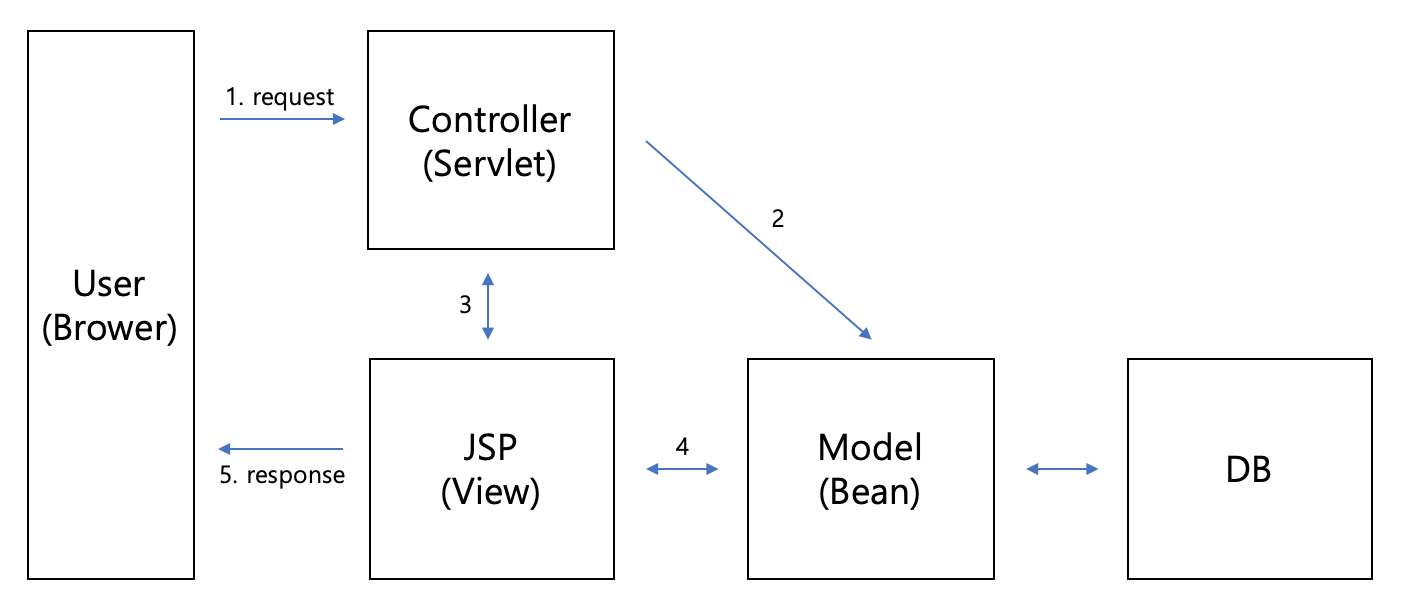
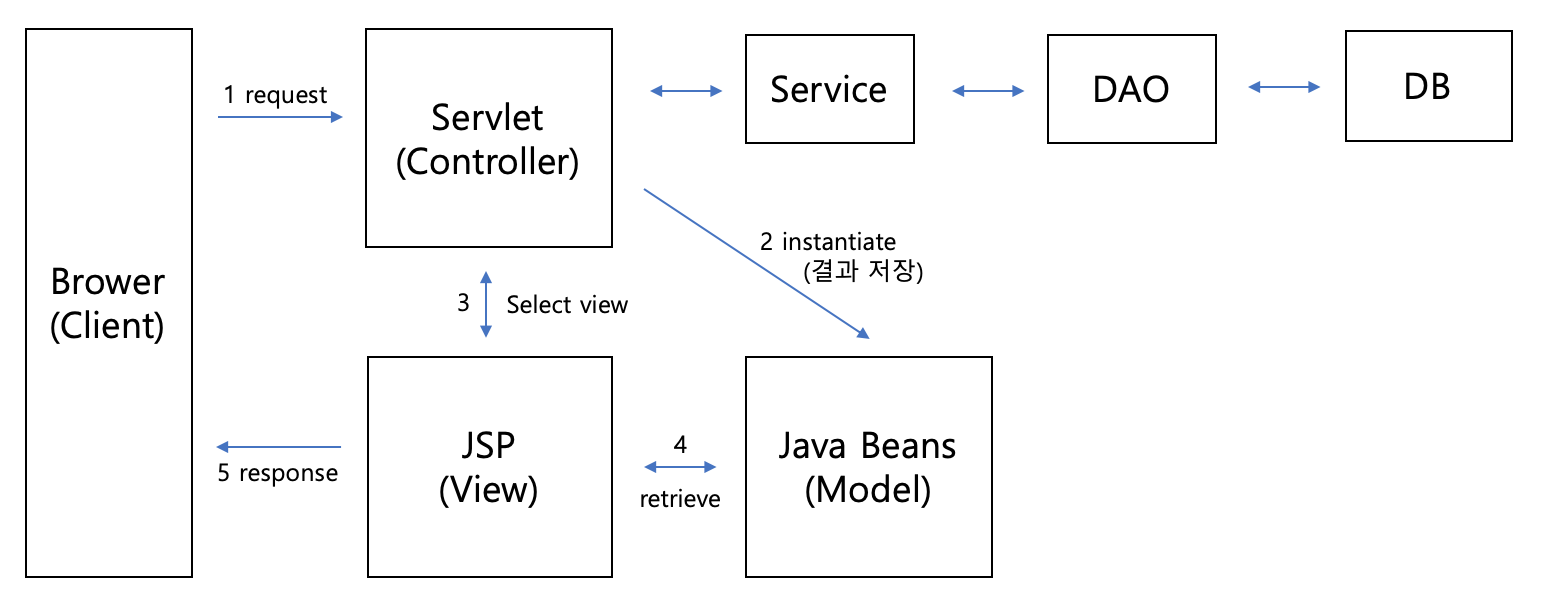
add :  - Spring framework 추가

diff --git a/_posts/2019-04-29-SpringFramework.md b/_posts/2019-04-29-SpringFramework.md
@@ -1,0 +1,57 @@
+---
+title: MVC1과 MVC2
+layout: post
+description: null
+headline: null
+modified: '2019-04-24'
+category: Spring
+tags:
+- Spring, MVC
+imagefeature: null
+mathjax: null
+chart: null
+comments: true
+featured: true
+lastmod : 2019-04-29 12:00:00
+sitemap :  
+   changefreq : daily
+   priority : 1.0
+---
+
+# Spring Framework  
+  
+## 1. Framework란 ?  
+Framework는 구조 품질을 보장  
+ - SW구조 그리고 기반되는 클래스를 제공  
+   
+Framework는 어플리케이션 구조 및 코드의 상당 부분을 제공하며, 개발자는 어플리케이션의 핵심 로직에 집중할 수 있다.
+
+### 1-1. Library VS Framework  
+ - 중요한 차이점은 "Inversion of Control"
+
+#### Library
+ - 클래스의 집합으로서 코드의 재사용성을 지원한다.
+ - 제어의 주체는 개발자이다. (코드에서 Library 함수를 호출한다)
+  
+#### Framework  
+ - 제어의 주체가 Framework이다.(프레임 워크에서 개발자의 코드를 호출한다 - 제어의 역전)  
+ - Framework에서 기본적인 골격을 잡아놓았기 때문에 개발자는 제어의 흐름에 맞게 코드를 작성해 두면 Framework에서 호출한다.  
+
+{:.post-img}
+![LibraryVSFramework](/images/post/libraryVSframework.png) 
+
+## 2. Spring이란 ?  
+
+### Lightweight Java Application Framework(Open source)  
+  
+**POJO** 기반의 엔터프라이즈 어플리케이션 개발을 쉽고 편하게 만들어 주는 라이브러리  
+  
+ - 자바 어플리케이션을 개발하는데 필요한 **하부구조**(infrastructure)를 포괄적으로 제공  
+ - 스프링이 하부 구조를 처리하므로 개발자는 **어플리케이션 개발에 집중**  
+   
+## 3. Spring 구성 요소
+  
+{:.post-img}
+![SpringStructure](/images/post/spring_structure.png) 
+
+ 
